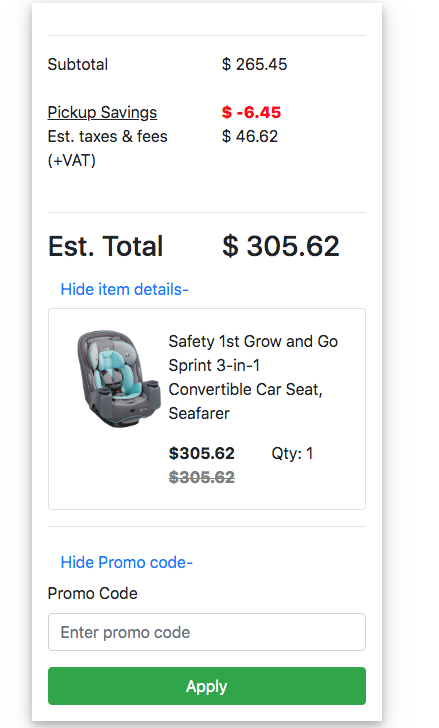
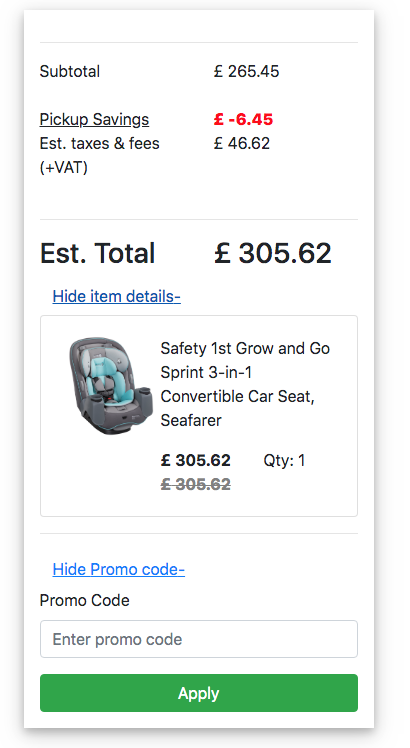
added currency

diff --git a/src/App.js b/src/App.js
@@ -25,7 +25,8 @@ class App extends Component {
       pickupsavings:-6.45,
       taxes:0,
       estimatedtotal:0,
-      disablePromoButton:false
+      disablePromoButton:false,
+      currency:"£"
     }
   }
 
@@ -61,12 +62,12 @@ class App extends Component {
   
         <Continer className="purchase-card">
           <hr/>
-          <Subtotal price={this.state.total.toFixed(2)}/>
-          <PickupSavings price={this.state.pickupsavings}/>
-          <TaxesFees taxes={this.state.taxes.toFixed(2)}/>
+          <Subtotal price={this.state.total.toFixed(2)} currency={this.state.currency}/>
+          <PickupSavings price={this.state.pickupsavings} currency={this.state.currency}/>
+          <TaxesFees taxes={this.state.taxes.toFixed(2)} currency={this.state.currency}/>
           <hr/>
-          <EstimatedTotal total={this.state.estimatedtotal.toFixed(2)}/>
-          <ItemDetails price={this.state.estimatedtotal.toFixed(2)}/>
+          <EstimatedTotal total={this.state.estimatedtotal.toFixed(2)} currency={this.state.currency}/>
+          <ItemDetails price={this.state.estimatedtotal.toFixed(2)} currency={this.state.currency}/>
 
           <hr/>
           <PromoCodeDiscount 

diff --git a/src/components/itemdetails/ItemDetails.js b/src/components/itemdetails/ItemDetails.js
@@ -42,10 +42,10 @@ export default class ItemDetails extends Component {
 
                                     <Row className="show-grid">
                                         <Col md={6}>
-                                            <strong> ${this.props.price}</strong>
+                                            <strong> {this.props.currency} {this.props.price}</strong>
                                             <br/>
                                             <strong className="price-strike">
-                                                ${this.props.price}
+                                            {this.props.currency} {this.props.price}
                                             </strong> 
                                             
                                         </Col>

diff --git a/src/components/subtotal/Subtotal.js b/src/components/subtotal/Subtotal.js
@@ -7,7 +7,7 @@ class Subtotal extends Component{
         return(
             <Row className="show-grid">
                 <Col md={6}>Subtotal</Col>
-                <Col md={6}>$ {this.props.price}</Col>
+                <Col md={6}>{this.props.currency} {this.props.price}</Col>
             </Row>
         )
     }

diff --git a/src/components/taxesfees/TaxesFees.js b/src/components/taxesfees/TaxesFees.js
@@ -9,7 +9,7 @@ export default class TaxesFees extends Component {
       
         <Row className="show-grid">
             <Col md={6}>Est. taxes & fees (+VAT)</Col>
-            <Col md={6}>$ {this.props.taxes}</Col>
+            <Col md={6}>{this.props.currency} {this.props.taxes}</Col>
         </Row>
      
     )

diff --git a/src/components/estimatedtotal/EstimatedTotal.js b/src/components/estimatedtotal/EstimatedTotal.js
@@ -6,7 +6,7 @@ export default class EstimatedTotal extends Component {
     return (
       <Row>
           <Col md={6}> <h3>Est. Total</h3></Col>
-          <Col md={6}> <h3>$ {this.props.total}</h3></Col>
+          <Col md={6}> <h3>{this.props.currency} {this.props.total}</h3></Col>
       </Row>
     )
   }

diff --git a/src/components/pickupsavings/PickupSavings.js b/src/components/pickupsavings/PickupSavings.js
@@ -32,7 +32,7 @@ export default class PickupSavings extends Component {
             </OverlayTrigger>
           </Col>
           <Col style={styles.totalSavings} md={6}>
-            $ {this.props.price}
+          {this.props.currency} {this.props.price}
           </Col>
         </Row>
       </div>

diff --git a/README.md b/README.md
@@ -9,6 +9,12 @@ The user will be able to enter a promo code "DISCOUNT60
 and on applying it, see a 60% discount reflect in the purchase summary
 
 
+## Application Screenshot
+
+![img](https://github.com/garshom/react-redux-shopping-cart/blob/master/public/screenshot.png)
+
+
+
 Clone the git application project using url https://github.com/garshom/react-redux-shopping-cart.git
 
 ## Available Scripts
